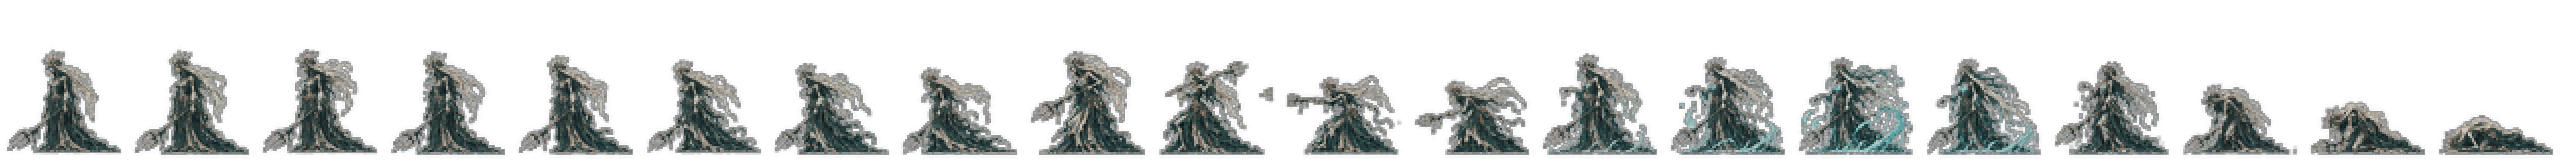
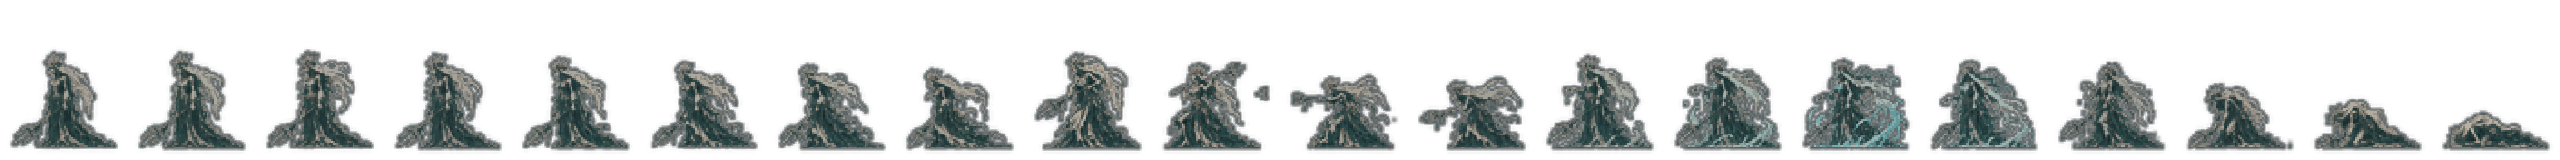
fix: add safe margins to boss animation frames

Changed region(s): [[0.0, 0.3125, 1.0, 0.9688]]

diff --git a/tools/remaster-bosses-pixel-v1.py b/tools/remaster-bosses-pixel-v1.py
@@ -37,14 +37,16 @@ def remaster(path, accent):
                 lum=(r+g+b)/3
                 if lum<92:
                     pix[x,y]=(int(r*.72+ar*.28),int(g*.72+ag*.28),int(b*.72+ab*.28))
-        rgb=rgb.resize((128,160),Image.Resampling.NEAREST)
-        mask=alpha.resize((64,80),Image.Resampling.LANCZOS).resize((128,160),Image.Resampling.NEAREST)
+        # Keep a deliberate 6px/5px safety margin inside every 128x160 cell;
+        # several source poses had crowns, weapons or feet touching the crop.
+        rgb=rgb.resize((116,148),Image.Resampling.NEAREST)
+        mask=alpha.resize((64,80),Image.Resampling.LANCZOS).resize((116,148),Image.Resampling.NEAREST)
         # One-pixel stepped edge keeps the sprite readable against dark rooms.
         edge=mask.filter(ImageFilter.MaxFilter(3))
         edge=Image.eval(edge,lambda v: min(v,105))
         rgba=Image.merge('RGBA',(*rgb.split(),mask))
-        under=Image.new('RGBA',(128,160),(8,10,14,0)); under.putalpha(edge)
-        out.alpha_composite(under,(i*128,0));out.alpha_composite(rgba,(i*128,0))
+        under=Image.new('RGBA',(116,148),(8,10,14,0)); under.putalpha(edge)
+        out.alpha_composite(under,(i*128+6,6));out.alpha_composite(rgba,(i*128+6,6))
     out.save(path,optimize=True)
 
 for name,accent in BOSSES.items():
